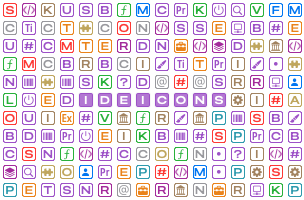
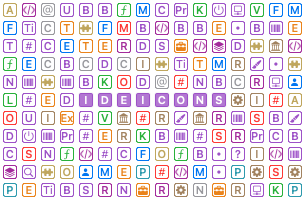
Revert back to non-expanded and -condensed fonts for now

diff --git a/Sources/IDEIcons/IDEIcon+Image.swift b/Sources/IDEIcons/IDEIcon+Image.swift
@@ -183,21 +183,24 @@ public extension IDEIcon {
 //    let deviceBounds = context.convertToDeviceSpace(bounds)
 //    let scale = deviceBounds.size.height / bounds.size.height
 
+    // TODO: selectively apply expanded and condensed based on content (e.g. ‘C’ and ‘S’ should be expanded)
+    // TODO: realize that the icons in Xcode seem completely arbitrary in which are expanded and which aren’t
+
     let font: PlatformFont
-    if case .text(let string) = content, style != .simple, style != .simpleHighlighted {
-      if string.count == 1 {
-        if string == "⨍" {
-          // (╯°□°)╯︵ ┻━┻
-          font = PlatformFont(name: "SFPro-ExpandedBlack", size: fontSize + fontSizeAdjustment)!
-        } else {
-          font = PlatformFont(name: "SFPro-ExpandedMedium", size: fontSize + fontSizeAdjustment)!
-        }
-      } else {
-        font = PlatformFont(name: "SFPro-CondensedMedium", size: fontSize + fontSizeAdjustment)!
-      }
-    } else {
+    // if case .text(let string) = content, style != .simple, style != .simpleHighlighted {
+    //   if string.count == 1 {
+    //     if string == "⨍" {
+    //       // (╯°□°)╯︵ ┻━┻
+    //       font = PlatformFont(name: "SFPro-ExpandedBlack", size: fontSize + fontSizeAdjustment)!
+    //     } else {
+    //       font = PlatformFont(name: "SFPro-ExpandedMedium", size: fontSize + fontSizeAdjustment)!
+    //     }
+    //   } else {
+    //     font = PlatformFont(name: "SFPro-CondensedMedium", size: fontSize + fontSizeAdjustment)!
+    //   }
+    // } else {
       font = PlatformFont.systemFont(ofSize: fontSize + fontSizeAdjustment, weight: fontWeight)
-    }
+    // }
 
     //var font = PlatformFont.systemFont(ofSize: fontSize + fontSizeAdjustment, weight: fontWeight)
 //#if os(macOS)
@@ -256,12 +259,12 @@ public extension IDEIcon {
 
       //let dy = (symbolFrame.height - attributedString.size().height) / 2
       //let textFrame = symbolFrame.integral.offsetBy(dx: 0, dy: yOffsetAdjustment - dy)
-      var textFrame = attributedString.size().centered(in: symbolFrame).integral.offsetBy(dx: 0, dy: yOffsetAdjustment)
+      let textFrame = attributedString.size().centered(in: symbolFrame).integral.offsetBy(dx: 0, dy: yOffsetAdjustment)
 
       //if string.count == 1 {
-      if string != "•", style != .simple, style != .simpleHighlighted {
-        textFrame = textFrame.offsetBy(dx: 0, dy: -1)
-      }
+      //if string != "•", style != .simple, style != .simpleHighlighted {
+      //  textFrame = textFrame.offsetBy(dx: 0, dy: -1)
+      //}
       //}
 
       // NSDottedFrameRect(textFrame)

diff --git a/Example/IDEIcons+Screenshots.swift b/Example/IDEIcons+Screenshots.swift
@@ -181,6 +181,7 @@ class IDEIcons_Screenshots: PreviewProvider {
       IDEIcon("?", color: .purple),
       IDEIcon("O", color: .red),
       IDEIcon("M", color: .red),
+      IDEIcon("E", color: .blue),
       IDEIcon("F", color: .blue),
       IDEIcon("C", color: .gray),
       IDEIcon("R", color: .brown),
